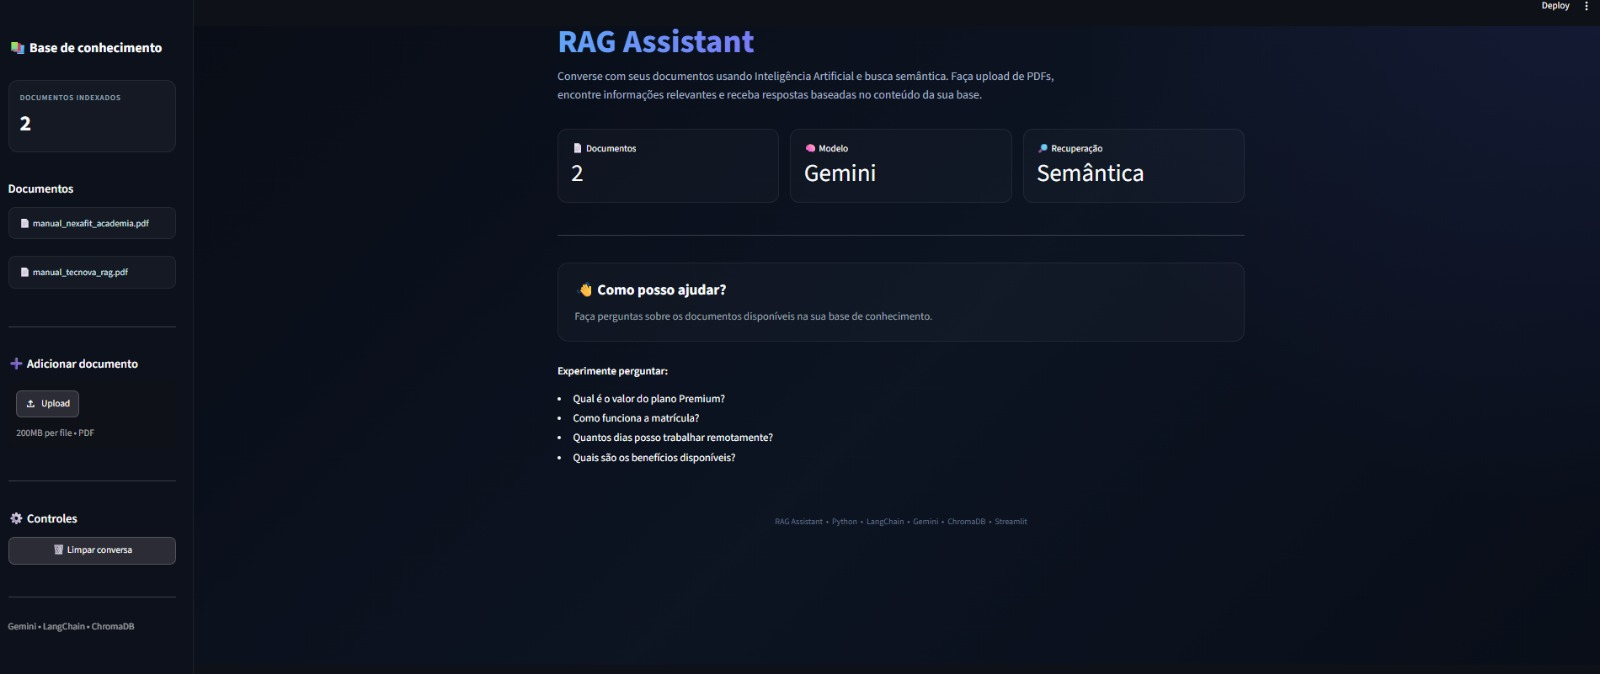
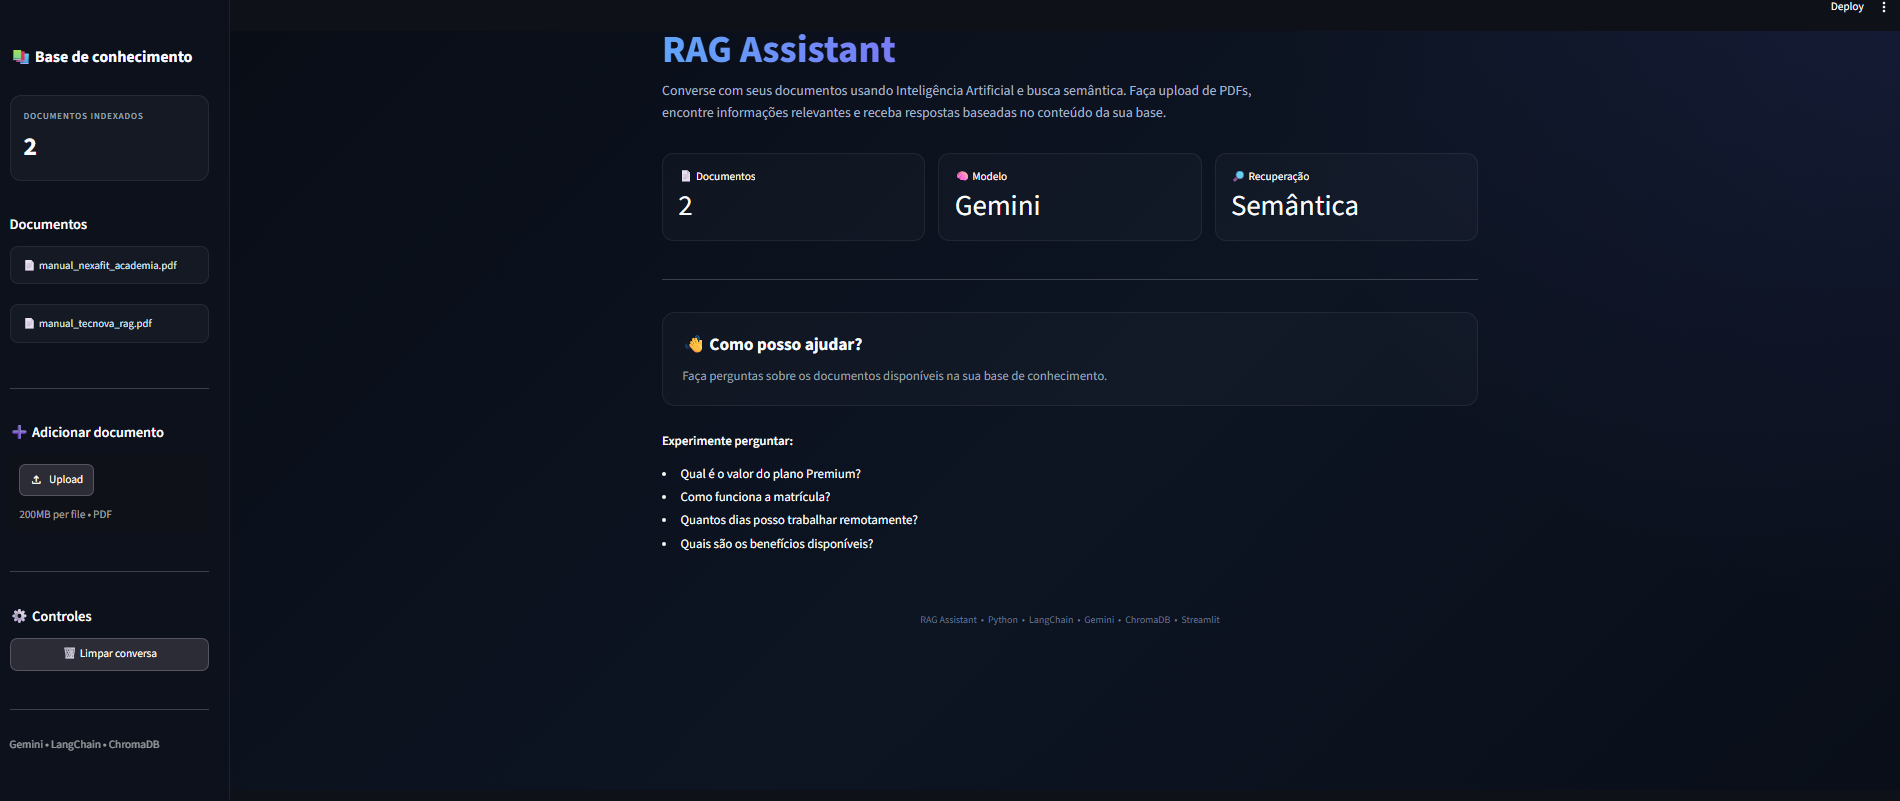
docs: improve README and update project screenshot

diff --git a/README.md b/README.md
@@ -1,99 +1,104 @@
 # 📚 RAG Assistant
 
-Assistente inteligente capaz de **responder perguntas com base em documentos PDF**.
+Assistente inteligente capaz de **responder perguntas com base em documentos PDF**, utilizando Inteligência Artificial e busca semântica.
 
-O projeto utiliza Inteligência Artificial e busca semântica para encontrar informações nos documentos e gerar respostas objetivas, mostrando também as fontes utilizadas.
+O sistema encontra as informações mais relevantes na base de documentos, gera uma resposta objetiva e apresenta as fontes utilizadas.
 
-![Demonstração do RAG Assistant](assets/rag-assistant-demo.png)
+---
+
+## 🖥 Demonstração
+
+![Demonstração do RAG Assistant](./assets/rag-assistant-demo.png)
 
 ---
 
 ## 💡 Sobre o projeto
 
-Empresas possuem manuais, políticas, procedimentos e outros documentos que podem conter muitas páginas de informação.
+Empresas armazenam informações importantes em manuais, políticas, procedimentos e outros documentos.
 
-Encontrar uma resposta específica nesses arquivos manualmente pode ser demorado.
+Encontrar uma informação específica nesses arquivos pode ser demorado.
 
-O **RAG Assistant** transforma esses documentos em uma base de conhecimento que pode ser consultada através de perguntas em linguagem natural.
+O **RAG Assistant** permite transformar documentos PDF em uma base de conhecimento consultável através de perguntas em linguagem natural.
 
 Por exemplo:
 
 > **"Como funciona a matrícula?"**
 
-O sistema procura a informação nos documentos, identifica os trechos mais relevantes e utiliza Inteligência Artificial para gerar a resposta.
+A aplicação pesquisa os documentos, encontra os trechos relacionados à pergunta e utiliza Inteligência Artificial para gerar uma resposta baseada no conteúdo encontrado.
 
 ---
 
-## ✨ O que a aplicação faz
+## ✨ Principais funcionalidades
 
-- 📄 Permite adicionar documentos PDF
-- 💬 Recebe perguntas em linguagem natural
-- 🔎 Pesquisa automaticamente nos documentos
-- 🧠 Utiliza busca semântica para encontrar informações relacionadas
-- 🤖 Gera respostas utilizando Inteligência Artificial
-- 📚 Mostra os documentos utilizados como fonte
-- 💾 Mantém uma base vetorial dos documentos
-- 🖥 Possui interface web interativa
+- 📄 Upload de documentos PDF
+- 💬 Perguntas em linguagem natural
+- 🔎 Busca semântica nos documentos
+- 🤖 Respostas geradas com Inteligência Artificial
+- 📚 Exibição das fontes utilizadas
+- 💾 Armazenamento vetorial dos documentos
+- 🖥 Interface web interativa
+- ⚠ Tratamento de erros e limites da API
 
 ---
 
 ## ⚙ Como funciona
 
-De forma simplificada:
-
 ```text
-📄 Documentos PDF
-        ↓
-🧠 Processamento
-        ↓
-🔎 Busca pela informação
-        ↓
-🤖 Inteligência Artificial
-        ↓
-💬 Resposta + fontes
+Documento PDF
+      ↓
+Processamento e divisão do conteúdo
+      ↓
+Geração de embeddings
+      ↓
+Armazenamento no ChromaDB
+      ↓
+Busca semântica
+      ↓
+Contexto enviado ao Gemini
+      ↓
+Resposta + fontes
 ```
 
-O projeto utiliza uma arquitetura chamada **RAG (Retrieval-Augmented Generation)**.
+A aplicação utiliza a arquitetura **RAG (Retrieval-Augmented Generation)**.
 
-Antes de responder, a aplicação procura informações relevantes nos documentos e fornece esse conteúdo para a IA.
-
-Isso permite criar assistentes especializados em uma base de documentos específica.
+Em vez de depender apenas do conhecimento do modelo de IA, o sistema primeiro recupera informações relevantes dos documentos e utiliza esse conteúdo como contexto para gerar a resposta.
 
 ---
 
-## 🛠 Tecnologias
+## 🛠 Tecnologias utilizadas
 
-O projeto foi desenvolvido com:
+**Python** • **LangChain** • **Google Gemini** • **ChromaDB** • **Streamlit**
 
-**Python • LangChain • Google Gemini • ChromaDB • Streamlit**
+Conceitos aplicados:
 
-Também foram aplicados conceitos de:
-
-**RAG • LLMs • Embeddings • Busca Semântica • Bancos Vetoriais**
+`RAG` `LLMs` `Embeddings` `Vector Database` `Semantic Search` `Prompt Engineering`
 
 ---
 
-## 🎯 O que desenvolvi neste projeto
+## 📂 Estrutura do projeto
 
-Durante o desenvolvimento foram implementados:
-
-- processamento e divisão de documentos;
-- geração de embeddings;
-- armazenamento em banco vetorial;
-- recuperação semântica de informações;
-- integração com modelo de linguagem;
-- sistema de fontes e relevância;
-- upload de novos documentos;
-- interface web;
-- tratamento de erros e logs;
-- testes dos principais componentes;
-- organização modular do código.
+```text
+rag-assistant/
+│
+├── assets/          # Imagens do projeto
+├── config/          # Configurações e prompts
+├── documents/       # Documentos utilizados pela aplicação
+├── src/             # Código principal do sistema
+├── tests/           # Testes dos componentes
+│
+├── app.py           # Interface via terminal
+├── web_app.py       # Interface web
+├── ingest.py        # Processamento dos documentos
+├── requirements.txt
+├── .env.example
+└── README.md
+```
 
 ---
 
-## 🚀 Executando o projeto
+## 🚀 Como executar
 
-### 1. Clone o repositório
+### 1. Clone o projeto
 
 ```bash
 git clone https://github.com/pcmdevs/rag-assistant.git
@@ -110,13 +115,11 @@ pip install -r requirements.txt
 
 Crie um arquivo `.env` na raiz do projeto utilizando o `.env.example` como referência.
 
-Adicione sua chave da API Gemini:
-
 ```env
 GEMINI_API_KEY=your_gemini_api_key_here
 ```
 
-> A chave real da API não é armazenada no repositório.
+> A chave real da API não deve ser adicionada ao GitHub.
 
 ### 4. Processe os documentos
 
@@ -124,28 +127,34 @@ GEMINI_API_KEY=your_gemini_api_key_here
 python ingest.py
 ```
 
-### 5. Inicie a aplicação
+### 5. Execute a aplicação
 
 ```bash
 streamlit run web_app.py
 ```
 
-A interface estará disponível no navegador.
+---
+
+## 🧪 Documentos de demonstração
+
+O projeto acompanha documentos fictícios utilizados para demonstrar o funcionamento do sistema.
+
+Eles permitem testar perguntas relacionadas a diferentes contextos sem utilizar informações reais ou confidenciais.
 
 ---
 
-## 🗺 Próximas melhorias
+## 🔮 Próximas melhorias
 
 - Memória de conversa
-- Melhorias na precisão das buscas
-- Suporte a outros formatos de documentos
 - Streaming das respostas
-- Testes automatizados
-- Docker
+- Suporte a outros formatos de arquivo
+- Aprimoramento do sistema de recuperação
+- Testes automatizados adicionais
+- Containerização com Docker
 - Deploy público
 
 ---
 
-## 📌 Observação
+## 👨💻 Autor
 
-Os documentos utilizados na demonstração são **fictícios** e foram criados exclusivamente para testes e apresentação do projeto.
+Desenvolvido por **Paulo Cesar** como projeto de portfólio voltado à aplicação prática de Inteligência Artificial, RAG e processamento de documentos.
